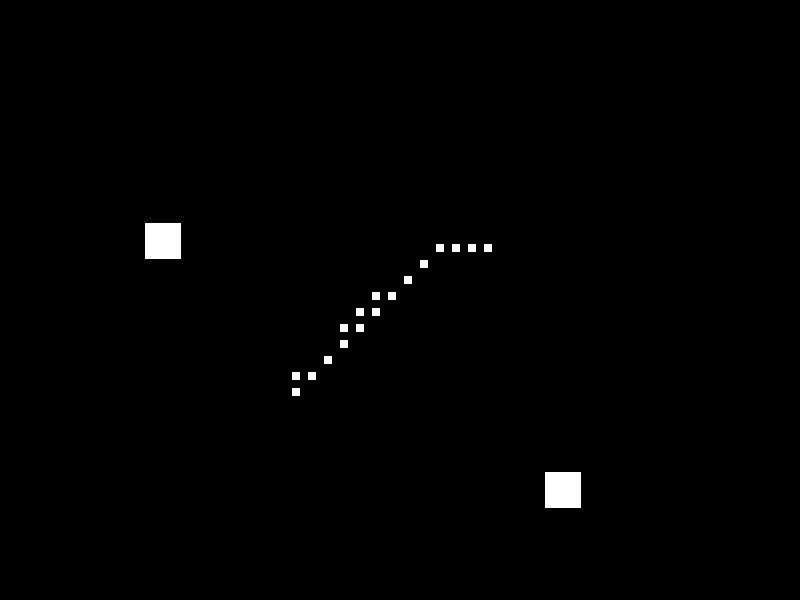
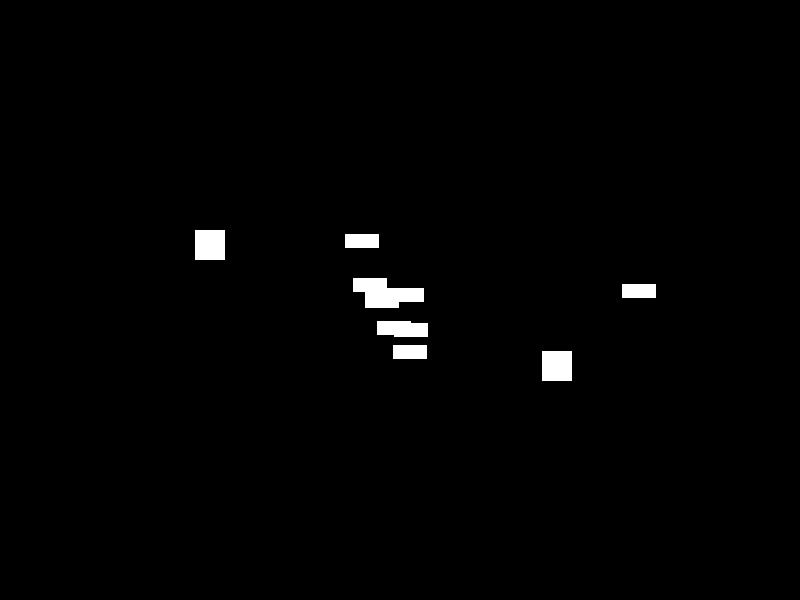
simulasi tanpa grid

diff --git a/Z_Simulasi.py b/Z_Simulasi.py
@@ -1,45 +1,31 @@
 from Utils import *
 
-# Inisialisasi pygame
 pygame.init()
 WIDTH, HEIGHT = 800, 600
 screen = pygame.display.set_mode((WIDTH, HEIGHT))
-pygame.display.set_caption("Grid with Dragable Markers & Draw Mode")
+pygame.display.set_caption("Obstacle Drawing with Pathfinding")
 
 # Warna
 WHITE = (255, 255, 255)
 BLACK = (0, 0, 0)
 RED = (255, 0, 0)
-GRAY = (220, 220, 220)
 
-# Grid config
-CELL_SIZE = 16
-GRID_COLS = WIDTH // CELL_SIZE
-GRID_ROWS = HEIGHT // CELL_SIZE
+# Konfigurasi obstacle
+OBSTACLE_SIZE = (40, 20)  # width x height
+obstacles = []  # menyimpan rect obstacle
 
 # Inisialisasi ArUco
 detector_params = aruco.DetectorParameters()
 detector_dict = aruco.getPredefinedDictionary(aruco.DICT_4X4_50)
 detector = aruco.ArucoDetector(detector_dict, detector_params)
 
-# Grid 2D: 0 = kosong, 1 = rintangan
-grid = [[0 for _ in range(GRID_COLS)] for _ in range(GRID_ROWS)]
-
-# Mode gambar
-draw_mode = False
-draw_toggle_ready = True
-drawing = False  # apakah mouse sedang menahan klik kiri
-dragging_marker = None  # marker mana yang sedang digeser
-save_on_mouseup = False
-path = []
-
-# Fungsi konversi cv2 ke pygame surface
+# Konversi cv2 ke pygame surface
 def cvimg_to_pygame(image):
     image = cv2.cvtColor(image, cv2.COLOR_BGR2RGB)
     image = np.rot90(image)
     return pygame.surfarray.make_surface(image)
 
-# Load ArUco marker 1
+# Load marker
 aruco_img1_cv = cv2.imread("Aruco/Marker/aruco_marker_id_0DICT_4X4_50.png")
 aruco_img1_cv = cv2.resize(aruco_img1_cv, (0, 0), fx=0.05, fy=0.05)
 aruco_img1_cv = cv2.flip(aruco_img1_cv, 1)
@@ -47,7 +33,6 @@ if aruco_img1_cv is None:
     raise FileNotFoundError("Marker 1 tidak ditemukan.")
 aruco_surface1 = cvimg_to_pygame(aruco_img1_cv)
 
-# Load ArUco marker 2
 aruco_img2_cv = cv2.imread("Aruco/Marker/aruco_marker_id_1DICT_4X4_50.png")
 aruco_img2_cv = cv2.resize(aruco_img2_cv, (0, 0), fx=0.05, fy=0.05)
 aruco_img2_cv = cv2.flip(aruco_img2_cv, 1)
@@ -55,29 +40,22 @@ if aruco_img2_cv is None:
     raise FileNotFoundError("Marker 2 tidak ditemukan.")
 aruco_surface2 = cvimg_to_pygame(aruco_img2_cv)
 
-# Ukuran marker (gunakan salah satu)
 marker_size = aruco_surface1.get_size()
-
-# Posisi awal 2 robot
 marker1_pos = np.array([WIDTH // 3, HEIGHT // 2], dtype=float)
 marker2_pos = np.array([2 * WIDTH // 3, HEIGHT // 2], dtype=float)
 
-# Fungsi menggambar grid dan rintangan
-def draw_grid():
-    for row in range(GRID_ROWS):
-        for col in range(GRID_COLS):
-            rect = pygame.Rect(col * CELL_SIZE, row * CELL_SIZE, CELL_SIZE, CELL_SIZE)
-            if grid[row][col] == 255:
-                pygame.draw.rect(screen, BLACK, rect)
-            pygame.draw.rect(screen, GRAY, rect, 1)
+draw_mode = False
+path = []
+save_on_mouseup = False
+dragging_marker = None
 
 def toImage(surface):
-    # Dapatkan array RGB dari surface
-    rgb_array = pygame.surfarray.array3d(surface)  # shape: (width, height, 3)
-    rgb_array = np.transpose(rgb_array, (1, 0, 2))  # jadi (height, width, 3)
-    return rgb_array
+    rgb_array = pygame.surfarray.array3d(surface)
+    rgb_array = np.transpose(rgb_array, (1, 0, 2))
+    bgr_array = cv2.cvtColor(rgb_array, cv2.COLOR_RGB2BGR)
+    return bgr_array
 
-# Loop utama
+
 clock = pygame.time.Clock()
 running = True
 
@@ -89,26 +67,15 @@ while running:
         if event.type == pygame.QUIT:
             running = False
 
-        # Toggle draw mode (Ctrl+G)
         elif event.type == pygame.KEYDOWN:
             if event.key == pygame.K_ESCAPE:
                 running = False
-            if (pygame.key.get_mods() & pygame.KMOD_CTRL) and event.key == pygame.K_g and draw_toggle_ready:
+            if (pygame.key.get_mods() & pygame.KMOD_CTRL) and event.key == pygame.K_g:
                 draw_mode = not draw_mode
-                draw_toggle_ready = False
-                print("Draw mode:", draw_mode)
 
-        elif event.type == pygame.KEYUP:
-            if event.key == pygame.K_g:
-                draw_toggle_ready = True
-
-        # Klik kiri tekan
         elif event.type == pygame.MOUSEBUTTONDOWN:
             if event.button == 1:
                 mx, my = pygame.mouse.get_pos()
-                drawing = True
-
-                # Cek apakah klik pada marker
                 for i, coord in enumerate([marker1_pos, marker2_pos]):
                     rect = pygame.Rect(0, 0, *marker_size)
                     rect.center = coord
@@ -116,38 +83,26 @@ while running:
                         dragging_marker = i
                         break
 
-                # Jika mode gambar dan bukan marker, aktifkan penggambaran
                 if draw_mode and dragging_marker is None:
-                    col, row = mx // CELL_SIZE, my // CELL_SIZE
-                    if 0 <= col < GRID_COLS and 0 <= row < GRID_ROWS:
-                        grid[row][col] = 255 if grid[row][col] == 0 else 0
+                    rect = pygame.Rect(mx, my, *OBSTACLE_SIZE)
+                    obstacles.append(rect)
 
-        # Lepas klik kiri
         elif event.type == pygame.MOUSEBUTTONUP:
             if event.button == 1:
-                drawing = False
+                if dragging_marker is not None:
+                    save_on_mouseup = True
                 dragging_marker = None
-                save_on_mouseup = True  # Aktifkan simpan di akhir frame
 
-        # Mouse digerakkan saat klik kiri ditahan
         elif event.type == pygame.MOUSEMOTION:
-            if draw_mode and drawing and dragging_marker is None:
-                mx, my = pygame.mouse.get_pos()
-                col, row = mx // CELL_SIZE, my // CELL_SIZE
-                if 0 <= col < GRID_COLS and 0 <= row < GRID_ROWS:
-                    grid[row][col] = 255
+            if dragging_marker is not None:
+                if dragging_marker == 0:
+                    marker1_pos = mouse_pos
+                elif dragging_marker == 1:
+                    marker2_pos = mouse_pos
 
-    # Update posisi marker jika sedang diseret
-    if dragging_marker is not None:
-        if dragging_marker == 0:
-            marker1_pos = mouse_pos
-        elif dragging_marker == 1:
-            marker2_pos = mouse_pos
+    for rect in obstacles:
+        pygame.draw.rect(screen, BLACK, rect)
 
-    # Gambar grid
-    draw_grid()
-
-    # Gambar markers
     rotated1 = pygame.transform.rotate(aruco_surface1, 0)
     rect1 = rotated1.get_rect(center=marker1_pos)
     screen.blit(rotated1, rect1)
@@ -156,33 +111,30 @@ while running:
     rect2 = rotated2.get_rect(center=marker2_pos)
     screen.blit(rotated2, rect2)
 
-    # Teks mode
-    font = pygame.font.SysFont(None, 24)
     if draw_mode:
+        font = pygame.font.SysFont(None, 24)
         text = font.render("Draw Mode [ON] - Ctrl+G to toggle", True, RED)
         screen.blit(text, (10, 10))
 
     if save_on_mouseup:
         img = toImage(screen)
+        print(img)
+        print("Unique values in image:", np.unique(img))
         start, goal, marker_sz = Pos(img)
         img = Prep(img, start, goal)
         err = Error(start, goal)
+        cv2.imwrite('hasil_image_rgb.jpg', img)
         path, times = jps.method(img, start[0], goal[0], 2, show=False)
         cv2.imwrite('gray_img.jpg', img)
-        save_on_mouseup = False  
+        save_on_mouseup = False
         pygame.image.save(screen, "hasil_dengan_path.png")
 
     if path:
         for i in range(len(path) - 1):
             p1 = np.flip(path[i][::-1])
             p2 = np.flip(path[i+1][::-1])
-            pygame.draw.line(
-                screen,               # permukaan tempat gambar
-                (0, 255, 0),           # warna garis (hijau)
-                p1,         # koordinat awal (x, y)
-                p2,       # koordinat akhir (x, y)
-                2                      # tebal garis
-                )
+            pygame.draw.line(screen, (0, 255, 0), p1, p2, 2)
+
     pygame.display.flip()
     clock.tick(60)
 

diff --git a/Finder/GetPrep.py b/Finder/GetPrep.py
@@ -23,20 +23,20 @@ def Prep(img, start, goal):
         except:
             print(f"Format img tidak valid")
 
+    # Hapus area robot - Convert float32 to int32 dan format untuk fillPoly
+    pts1 = goal[1].astype(np.int32)
+    pts2 = start[1].astype(np.int32)
+    
+    # Pastikan pts dalam format yang benar untuk fillPoly - gunakan list of arrays
+    cv2.fillPoly(img, [pts1], (0, 0, 0))
+    cv2.fillPoly(img, [pts2], (0, 0, 0))
+
     # Rubah kedalam bentuk biner
     _, img = cv2.threshold(img, 100, 255, cv2.THRESH_BINARY_INV)
 
     # Penghapusan noise
     kernel = np.ones((3,3), np.uint8)
     img = cv2.erode(img, kernel, iterations=3)
-
-    # Hapus area robot - Convert float32 to int32 dan format untuk fillPoly
-    pts1 = goal[1].astype(np.int32)
-    pts2 = start[1].astype(np.int32)
-    
-    # Pastikan pts dalam format yang benar untuk fillPoly - gunakan list of arrays
-    cv2.fillPoly(img, [pts1], (255, 255, 255))
-    cv2.fillPoly(img, [pts2], (255, 255, 255))
 
     # Pendefinisian Map
     map = img
